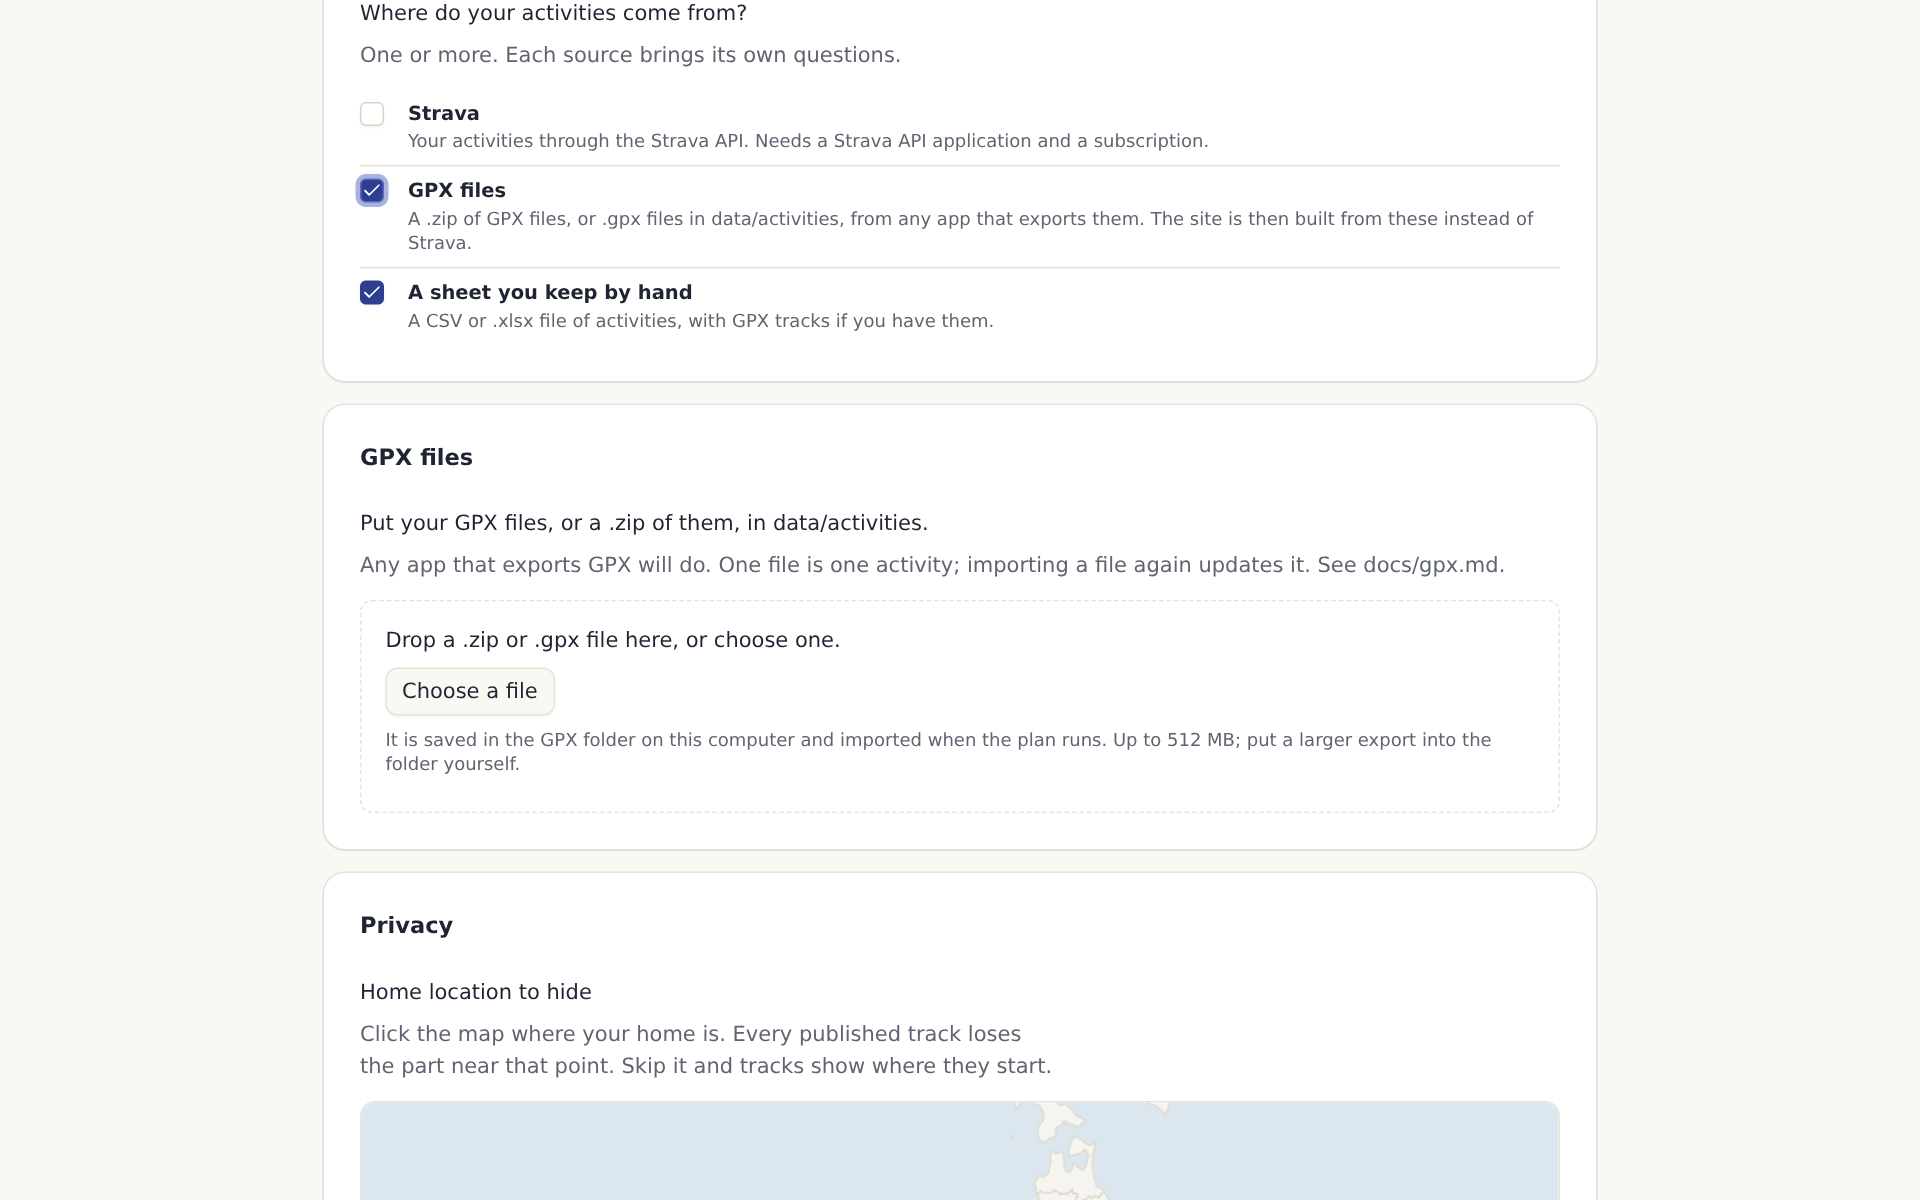
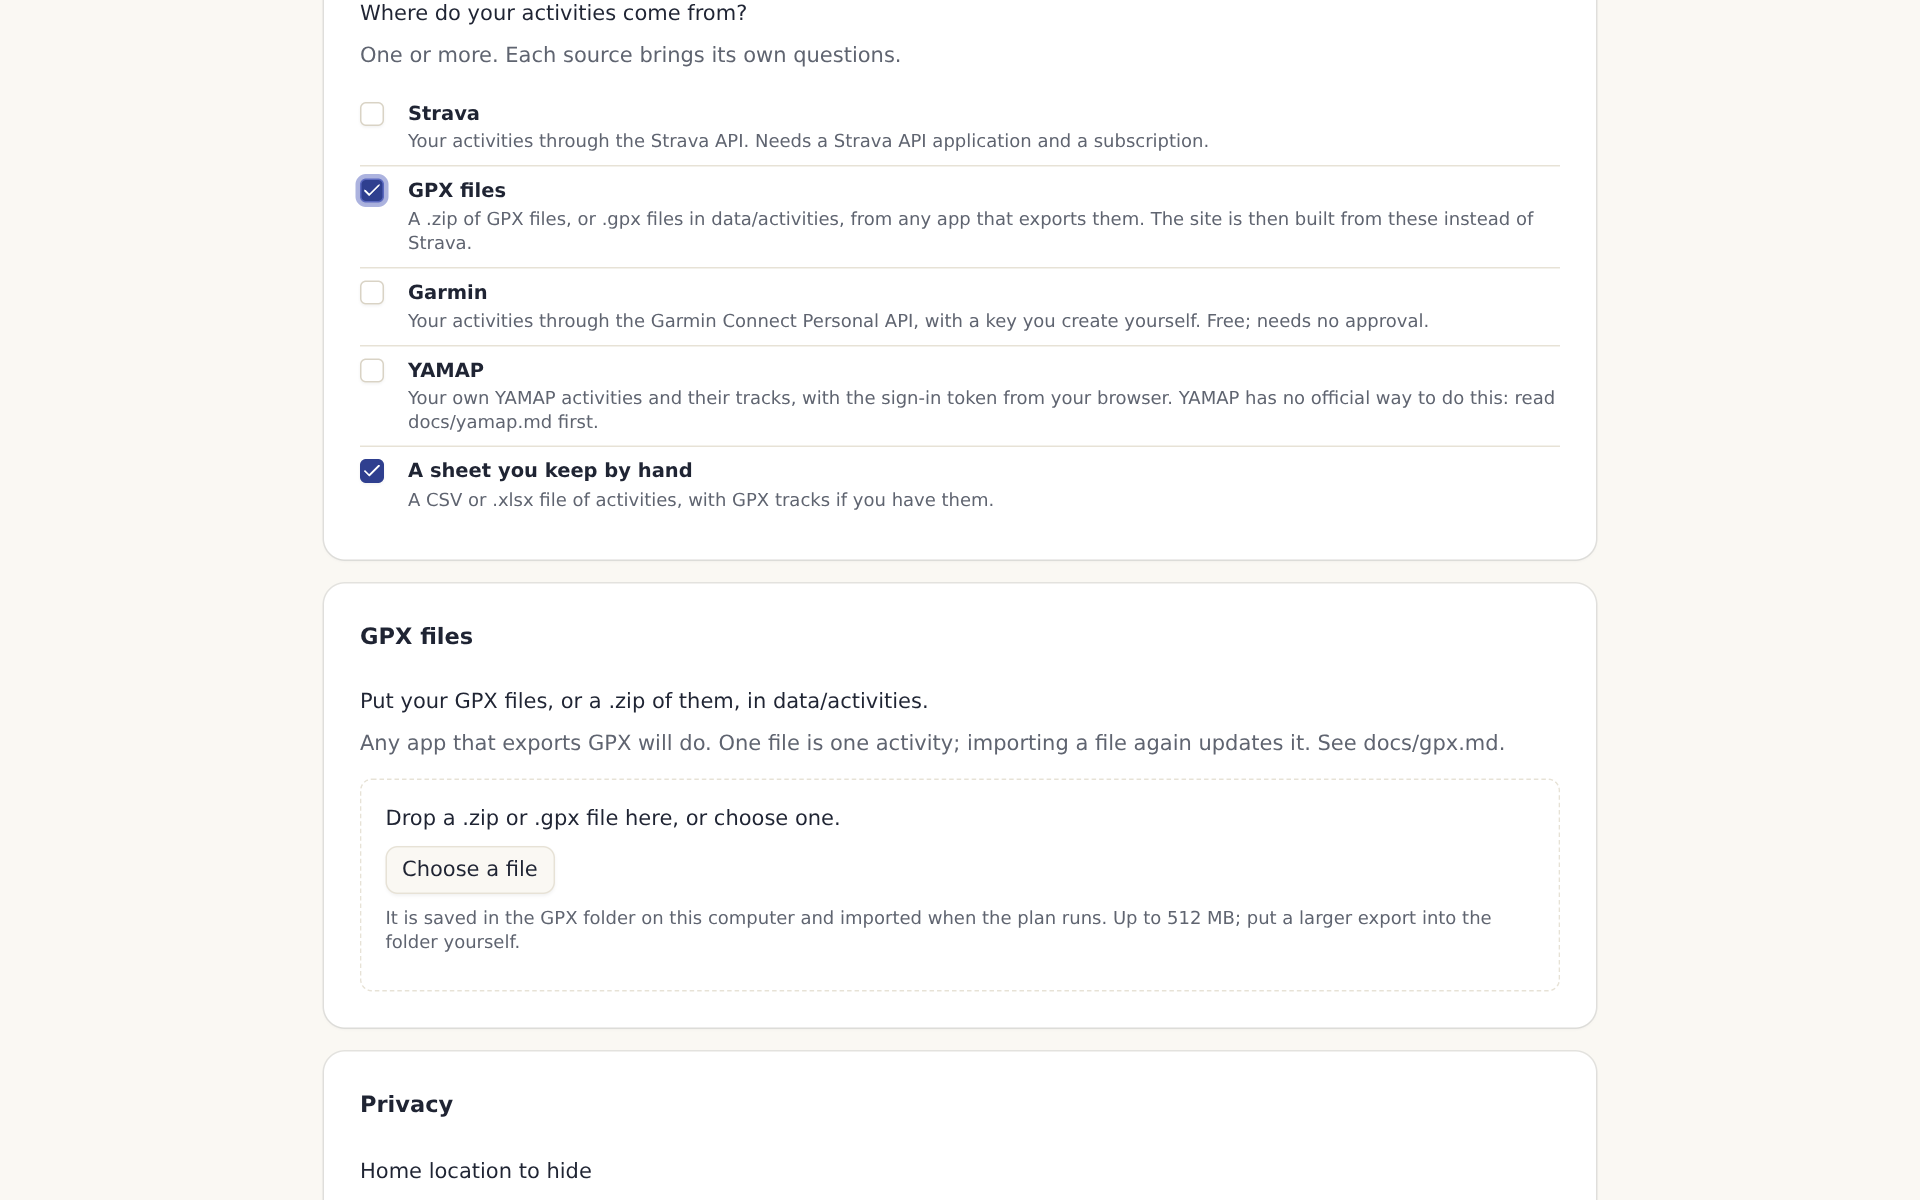
docs: a route section in the README; setup screenshots show the new sources

Changed region(s): [[0.1875, 0.6783, 0.8125, 1.0], [0.1875, 0.2158, 0.8125, 0.4933], [0.1875, 0.5242, 0.7812, 0.6475]]

diff --git a/README.md b/README.md
@@ -52,6 +52,15 @@ every other time you did the same route.
 
 ![An activity: its track, figures, height profile and splits](docs/images/activity.png)
 
+### Long routes
+
+Open a route, or one section of it, to see how much you've covered and where the next uncovered
+stretch starts. It also says what is left and about how long that would take at your own usual
+pace. The route's line downloads as a GPX file for a navigation app, and its start opens in your
+phone's maps app; so does any place on a list.
+
+![A route: the stretches covered, what is left and about how long it would take, with buttons to download it as GPX and open its start in maps](docs/images/route.png)
+
 ### Where activities come from
 
 Strava, Garmin Connect (with your own personal API key), YAMAP (with the sign-in token from your

diff --git a/docs/gpx.md b/docs/gpx.md
@@ -83,7 +83,7 @@ files themselves aren't touched. No GPX command reads or changes a Strava activi
 a `.gpx` there and it is saved into `data/activities` on your computer, then imported when the
 plan runs (docs/setup.md).
 
-![The setup page with GPX files chosen: a place to drop a .zip or .gpx](images/setup-gpx.png)
+![The setup page with GPX files chosen among the sources, and a place to drop a .zip or .gpx](images/setup-gpx.png)
 
 ## Building the site from GPX files
 
